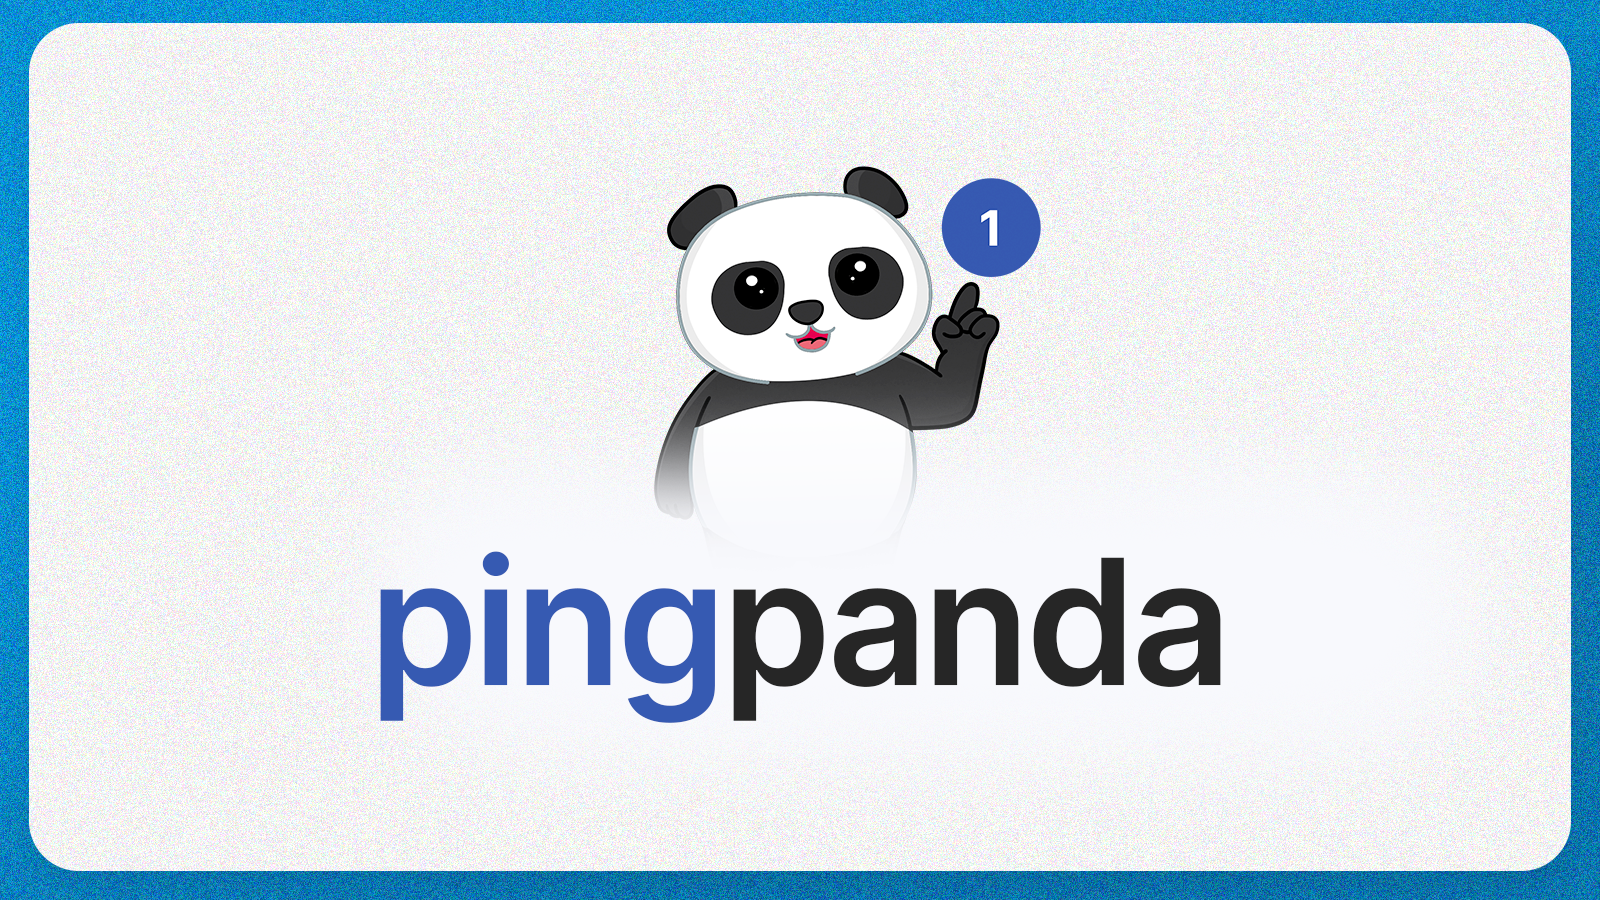
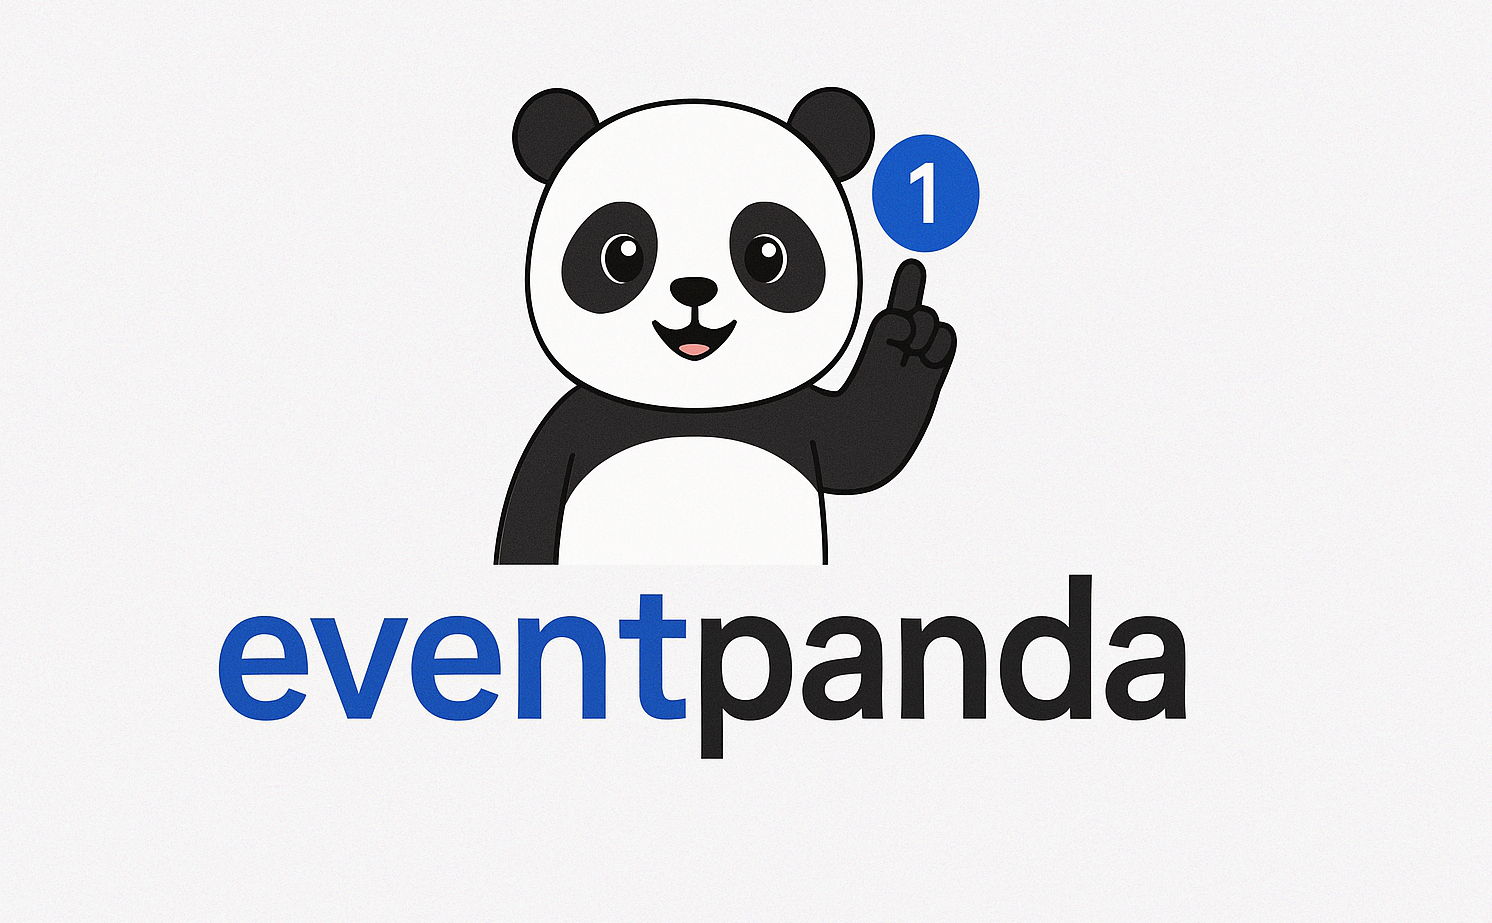
layout minor fix

diff --git a/src/app/layout.tsx b/src/app/layout.tsx
@@ -14,7 +14,7 @@ const eb_garamond = EB_Garamond({
 })
 
 export const metadata: Metadata = {
-  title: "jStack App",
+  title: "EventPanda",
   description: "Created using jStack",
   icons: [{ rel: "icon", url: "/favicon.ico" }],
 }
